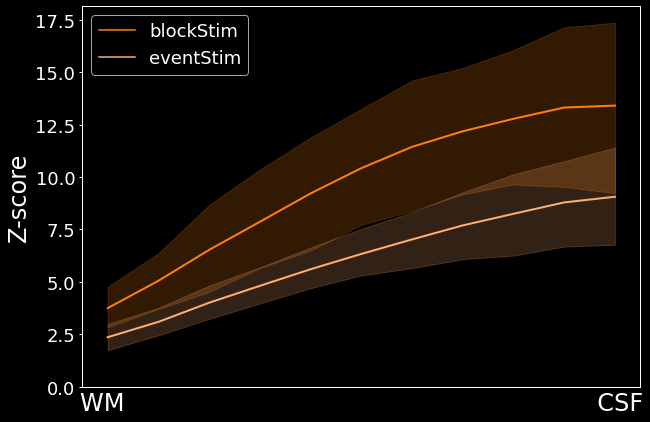
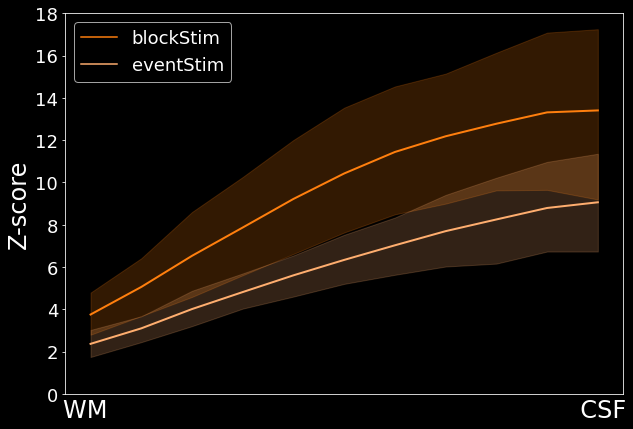
add plotting script

diff --git a/code/plotting.py b/code/plotting.py
@@ -1,0 +1,120 @@
+'''
+
+Plotting figures for the manuscript
+
+'''
+
+
+import pandas as pd
+import numpy as np
+
+import seaborn as sns
+
+import matplotlib.pyplot as plt
+
+
+from matplotlib.ticker import MaxNLocator
+from matplotlib.ticker import FormatStrFormatter
+
+plt.style.use('dark_background')
+
+# set general styles
+
+#########################################
+########## set general styles ##########
+#########################################
+
+# define figzize
+FS = (10, 7)
+
+# define linewidth to 2
+LW = 2
+
+# define fontsize size for x- and y-labels
+labelSize = 24
+
+# define fontsize size for x- and y-ticks
+tickLabelSize = 18
+
+# define fontsize legend text
+
+legendTextSize = 18
+
+
+###########################################
+########## Plot blocks vs events ##########
+###########################################
+
+# load data
+zscores = pd.read_csv('../results/blocksVsEventsData.csv')
+
+# Define two colors for each modality
+VASOcmap = {
+    'eventStim': '#7dadd9',
+    'blockStim': '#1f77b4'}
+BOLDcmap = {
+    'eventStim': '#ffae6f',
+    'blockStim': '#ff7f0e'}
+
+# store as list to loop over
+palettes = [VASOcmap,BOLDcmap]
+
+
+
+for modality, cmap in zip(['VASO', 'BOLD'], palettes):
+
+    fig, ax = plt.subplots(figsize=FS)
+
+    # Limit plotting to modality, focus and visiotactile stimulation and remove
+    # long TR block stimulation for fair comparisons
+    tmp = zscores.loc[
+        (zscores['modality']==modality)
+        & (zscores['focus']==focus)
+        & (zscores['contrast']=='visiotactile')
+        & (zscores['stimType']!='blockStimLongTR')
+        ]
+
+    sns.lineplot(ax=ax,
+        data=tmp,
+        x='layer',
+        y='data',
+        hue='runType',
+        palette=cmap,
+        linewidth = LW
+        )
+
+
+    plt.ylabel(f'Z-score',
+        fontsize=labelSize)
+
+    plt.xlabel(
+        'WM'
+        + '                                                              '
+        + 'CSF',
+        fontsize = labelSize
+        )
+
+    # Remove ticks for x-axis
+    plt.xticks([])
+
+
+    plt.yticks(fontsize=tickLabelSize)
+
+    # Set y-limits for modalities
+    if modality == 'VASO':
+        ax.set_ylim(0,6)
+    if modality == 'BOLD':
+        ax.set_ylim(0,18)
+
+
+    plt.legend(loc = 'upper left',
+        fontsize = legendTextSize
+        )
+
+    current_values = plt.gca().get_yticks()
+    plt.gca().set_yticklabels(['{:02d}'.format(int(x)) for x in current_values])
+
+    plt.savefig(f'../results/Group_v1_{modality}_blocksVsEvents.png',
+        bbox_inches = 'tight')
+
+    plt.show()
